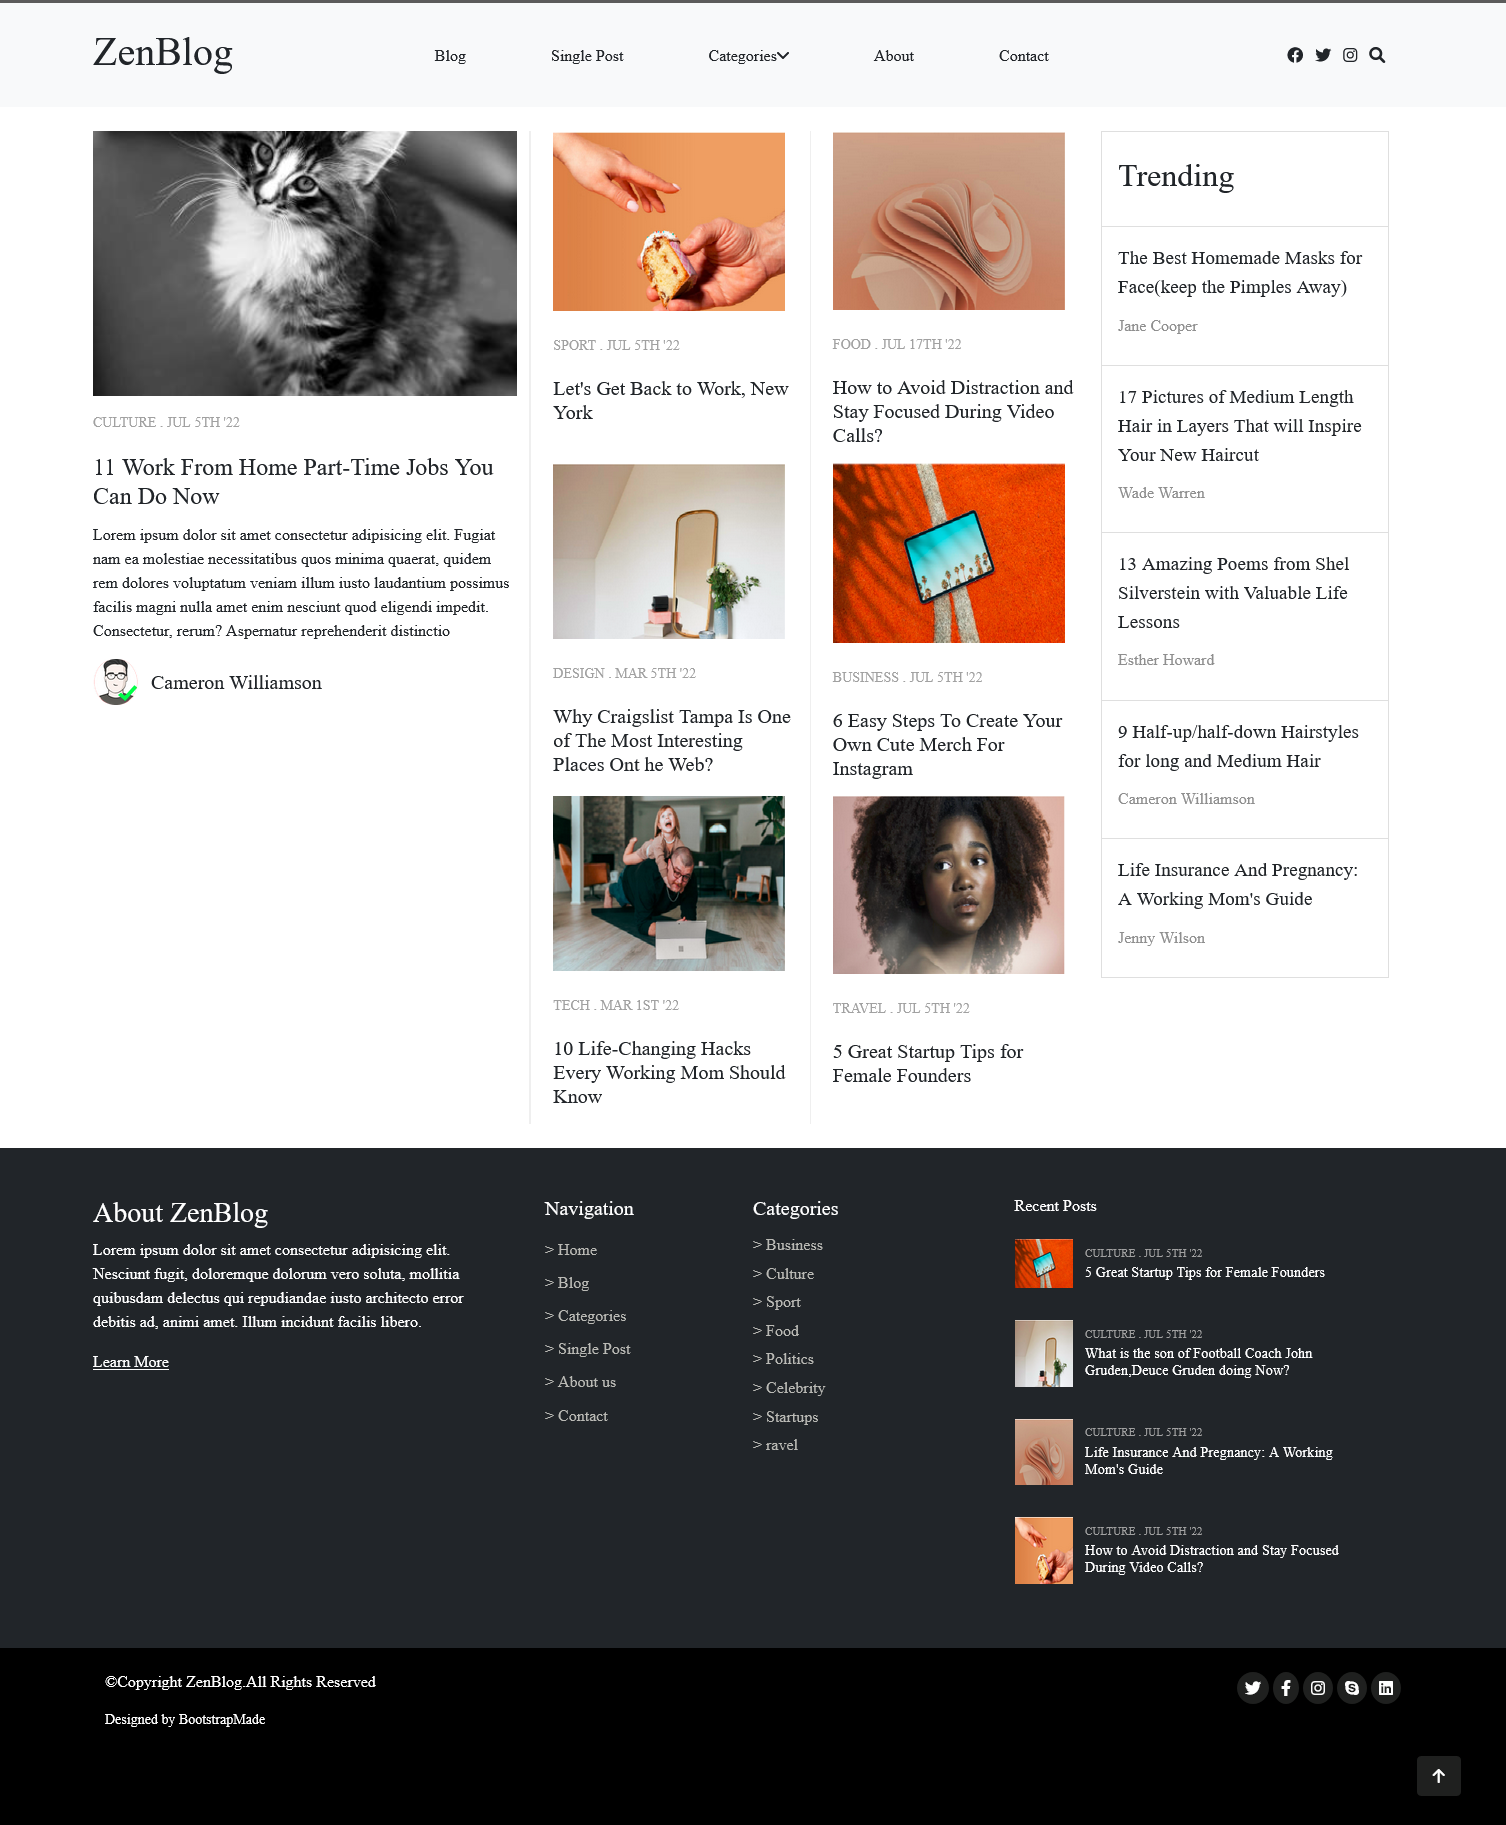
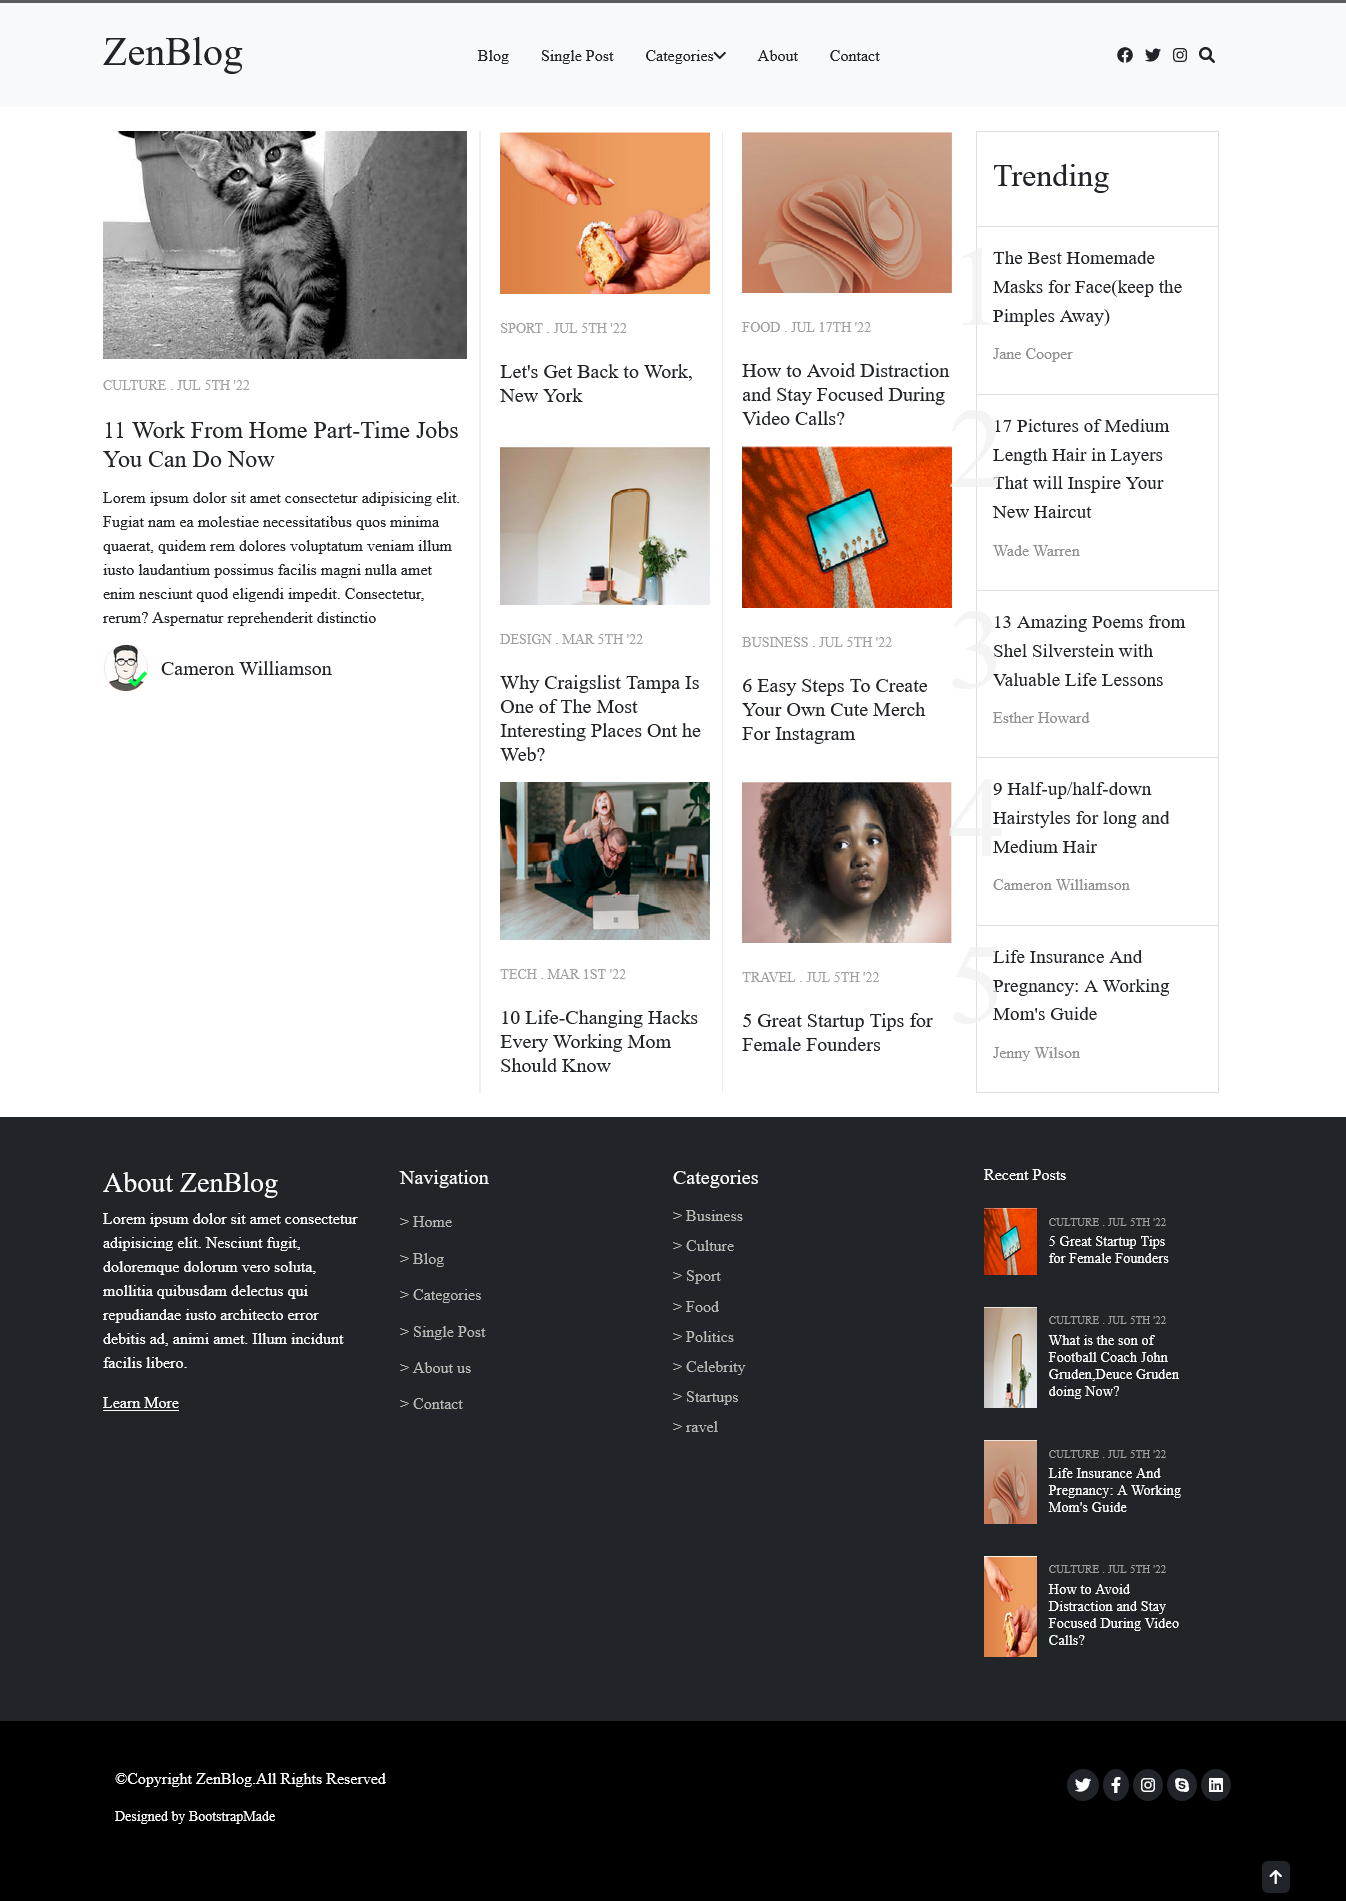
watermark added and fix some issues and screenshot updated

diff --git a/assignment3/src/index.html b/assignment3/src/index.html
@@ -23,27 +23,26 @@
   <body>
     <!-- header starts here -->
     <header class="bg-light py-4 container-fluid">
-      <div class="container px-md-0 navigation-bar">
-        <div class="row header-nav">
-          <div class="col-5 col-md-1 col-lg-1 align-self-center logo">
+      <div class="container px-md-0 navigation-bar d-flex justify-content-between">
+          <div class="align-self-center logo">
             <h1 class="align-self-center">ZenBlog</h1>
           </div>
 
           <nav
-            class="nav d-none d-md-block d-lg-block col-md-7 col-lg-7 pe-sm-0 align-self-center px-md-0"
+            class="nav d-none d-md-block d-lg-block pe-sm-0 align-self-center px-md-0"
           >
             <ul
               class="list-unstyled d-flex nav-ul mb-md-0 d-md-flex font-weight-bold justify-content-around align-items-center"
             >
-              <li>Blog</li>
-              <li>Single Post</li>
-              <li>Categories<i class="fa-solid fa-angle-down"></i></li>
-              <li>About</li>
-              <li>Contact</li>
+              <li class="px-3">Blog</li>
+              <li class="px-3">Single Post</li>
+              <li class="px-3">Categories<i class="fa-solid fa-angle-down"></i></li>
+              <li class="px-3">About</li>
+              <li class="px-3">Contact</li>
             </ul>
           </nav>
           <div
-            class="header-icons align-self-center justify-content-sm-end col-7 col-md-4 col-lg-4 align-self-center px-md-0 text-right"
+            class="header-icons align-self-center justify-content-sm-end align-self-center text-right pe-md-4"
           >
             <i class="fa-brands fa-facebook m-1"></i>
             <i class="fa-brands fa-twitter m-1"></i>
@@ -51,7 +50,6 @@
             <i class="fa-solid fa-magnifying-glass m-1"></i>
             <i class="fa-solid fa-bars m-1 d-md-none d-lg-none"></i>
           </div>
-        </div>
       </div>
     </header>
 
@@ -195,24 +193,30 @@
               <ul class="list-group col-sm-12">
                 <li class="list-group-item py-md-4"><h2>Trending</h2></li>
                 <li class="list-group-item py-md-3 py-lg-3">
+                  
+                  <div class="watermark d-none d-md-block">1</div>
                   The Best Homemade Masks for Face(keep the Pimples Away)
                   <small class="d-block">Jane Cooper</small>
                 </li>
                 <li class="list-group-item py-md-3 py-lg-3">
+                  <div class="watermark d-none d-md-block">2</div>
                   17 Pictures of Medium Length Hair in Layers That will Inspire
                   Your New Haircut
                   <small class="d-block">Wade Warren</small>
                 </li>
                 <li class="list-group-item py-md-3 py-lg-3">
+                  <div class="watermark d-none d-md-block">3</div>
                   13 Amazing Poems from Shel Silverstein with Valuable Life
                   Lessons
                   <small class="d-block">Esther Howard</small>
                 </li>
                 <li class="list-group-item py-md-3 py-lg-3">
+                  <div class="watermark d-none d-md-block">4</div>
                   9 Half-up/half-down Hairstyles for long and Medium Hair
                   <small class="d-block">Cameron Williamson</small>
                 </li>
                 <li class="list-group-item py-md-3 py-lg-3">
+                  <div class="watermark d-none d-md-block">5</div>
                   Life Insurance And Pregnancy: A Working Mom's Guide
                   <small class="d-block">Jenny Wilson</small>
                 </li>
@@ -223,6 +227,7 @@
         </div>
       </div>
     </main>
+
 
     <section class="bg-dark py-5 d-md-flex d-lg-flex container-fluid">
       <div class="section-wrapper container">
@@ -247,26 +252,26 @@
               <div class="ul1 w-50">
                 <ul class="text-white list-unstyled">
                   <h5 class="text-white col-sm-6">Navigation</h5>
-                  <li>> Home</li>
-                  <li>> Blog</li>
-                  <li>> Categories</li>
-                  <li>> Single Post</li>
-                  <li>> About us</li>
-                  <li>> Contact</li>
+                  <li>&gt; Home</li>
+                  <li>&gt; Blog</li>
+                  <li>&gt; Categories</li>
+                  <li>&gt; Single Post</li>
+                  <li>&gt; About us</li>
+                  <li>&gt; Contact</li>
                 </ul>
               </div>
 
               <div class="ul2 w-50">
                 <ul class="text-white list-unstyled col-sm-6 d-block">
                   <h5 class="text-white col-sm-6">Categories</h5>
-                  <li>> Business</li>
-                  <li>> Culture</li>
-                  <li>> Sport</li>
-                  <li>> Food</li>
-                  <li>> Politics</li>
-                  <li>> Celebrity</li>
-                  <li>> Startups</li>
-                  <li>> ravel</li>
+                  <li>&gt; Business</li>
+                  <li>&gt; Culture</li>
+                  <li>&gt; Sport</li>
+                  <li>&gt; Food</li>
+                  <li>&gt; Politics</li>
+                  <li>&gt; Celebrity</li>
+                  <li>&gt; Startups</li>
+                  <li>&gt; ravel</li>
                 </ul>
               </div>
             </div>

diff --git a/assignment3/src/style.css b/assignment3/src/style.css
@@ -55,6 +55,21 @@ li.list-group-item small {
   header {
     border-top: 3px solid #5c5b5b;
   }
+
+  .list-text{
+    width: 80%;
+  }
+  .trending-list ul{
+    postion:relative;
+  }
+  .watermark{
+    color: #f0f0f0;
+    opacity: 0.7;
+    position: absolute;
+    left: -12%;
+    top: -17%;
+    font-size: 6em;
+  }
   div.post {
     width: 50%;
   }
